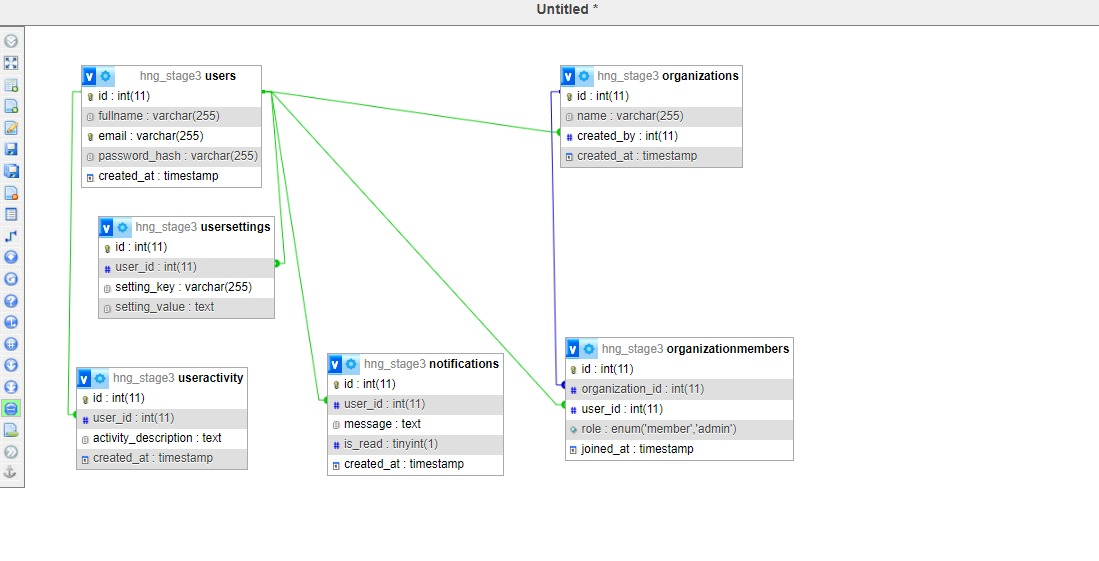
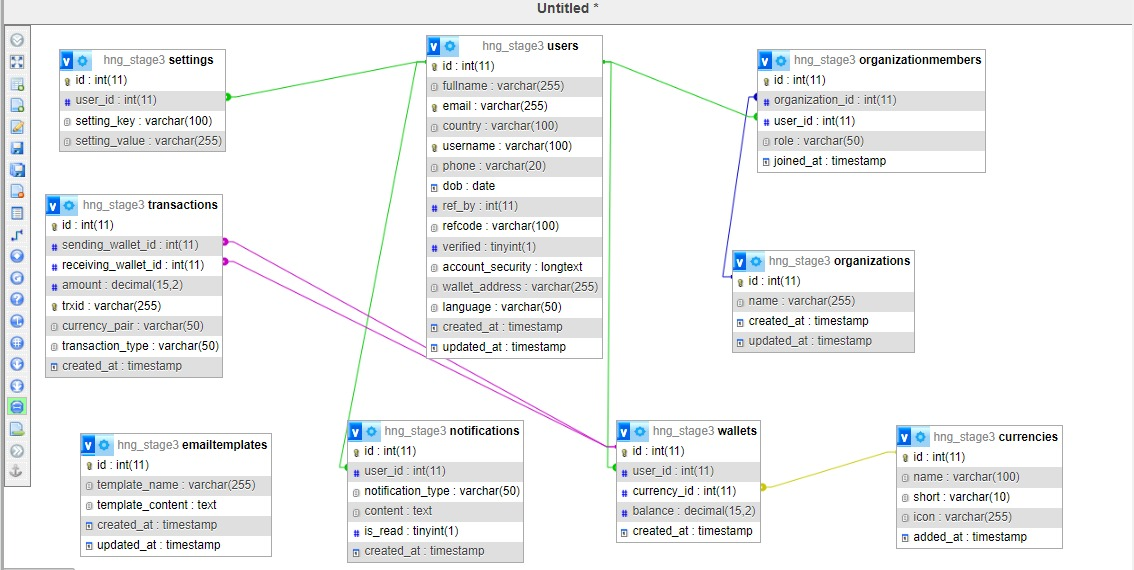
updated

diff --git a/README.md b/README.md
@@ -2,56 +2,58 @@
 
 ## Overview
 
-The HNG Boilerplate API provides a simple, secure, and efficient way to manage user accounts and organizations. This API follows the OpenAPI specification for documentation and includes user authentication, organization management, and user settings.
+This API serves as a foundational boilerplate for building scalable applications with features including user authentication, messaging, payment integration, and a superadmin interface. It follows best practices and is structured according to the norms of the chosen framework.
 
 ## Features
 
-- User authentication (signup, login, password reset)
-- User profile management
-- Organization creation and membership management
-- JWT-based authentication
-- Activity logging and notification settings
+- **Authentication**
+  - Email and password authentication
+  - Social authentication (e.g., Google, Facebook)
+  - Magic link authentication
+  - Change password functionality
 
-## API Endpoints
+- **Messaging**
+  - Email messaging with default templates
+  - Background processing for sending emails
 
-### Authentication
+- **Payments**
+  - Integration with Stripe and Flutterwave for processing payments
+  - Support for various payment methods, including LemonSqueezy
 
-- **POST /auth/signup**: Create a new account
-- **POST /auth/login**: Sign in to the account
-- **POST /auth/forgot-password**: Initiate password reset process
-- **POST /auth/reset-password**: Reset user password
-- **GET /auth/profile**: Get user details (protected route)
+- **User and Organization Management**
+  - Manage users and organizations through a superadmin interface
+  - User profile settings and management
 
-### User Management
+- **Settings Management**
+  - Application settings and user-specific settings
+  - GDPR cookie management
 
-- **PUT /users/{id}**: Update user profile (protected route)
-- **GET /users/{id}**: Get specific user details (protected route)
-- **GET /users/{id}/settings**: Retrieve user-specific settings (protected route)
-- **PUT /users/{id}/settings**: Update user-specific settings (protected route)
-- **GET /users/{id}/activity**: Retrieve a user's activity log (protected route)
+- **Landing Pages**
+  - Privacy policy, contact us, about us, and other informational pages
 
-### Organization Management
+- **Dashboard**
+  - Basic dashboard with user activity logs
+  - Waitlist functionality (coming soon)
+  - Marketing squeeze pages and invite flow
 
-- **POST /organizations**: Create a new organization (protected route)
-- **GET /organizations/{id}**: Get organization details (protected route)
-- **PUT /organizations/{id}**: Update organization details (protected route)
-- **DELETE /organizations/{id}**: Delete an organization (protected route)
-- **POST /organizations/{id}/members**: Add members to an organization (protected route)
-- **DELETE /organizations/{id}/members/{userId}**: Remove a member from an organization (protected route)
-- **GET /organizations/{id}/members**: Get members of an organization (protected route)
-- **GET /organizations/search**: Search for organizations (public)
+- **Data Management**
+  - User data export
+  - Random data generation and display on dashboards
+  - Data list with search and sorting capabilities
+  - Chart page for visualizing user data
 
-## Database Design
+- **Notifications and Blog**
+  - User notifications
+  - Blog management and posts
 
-The database includes the following tables:
+- **Database Design**
+  The database design is store an image in the root directory (db_design.jpeg).
 
-- **Users**: Stores user details and authentication information.
-- **Organizations**: Contains organization information.
-- **Organization Members**: Manages user memberships in organizations.
-- **Settings**: Stores user-specific settings.
-- **Notifications**: Handles notifications for users.
-- **User Activity**: Logs user activities for auditing.
-- **Database Design**: The database design is store an image in the root directory (db_design.jpeg).
+## API Documentation
+
+The API follows the OpenAPI specification. You can view the interactive documentation and test endpoints using the link below.
+[Documentation](https://test002.otecfx.com/documentation/#/)
+
 
 ## Setup Instructions
 
